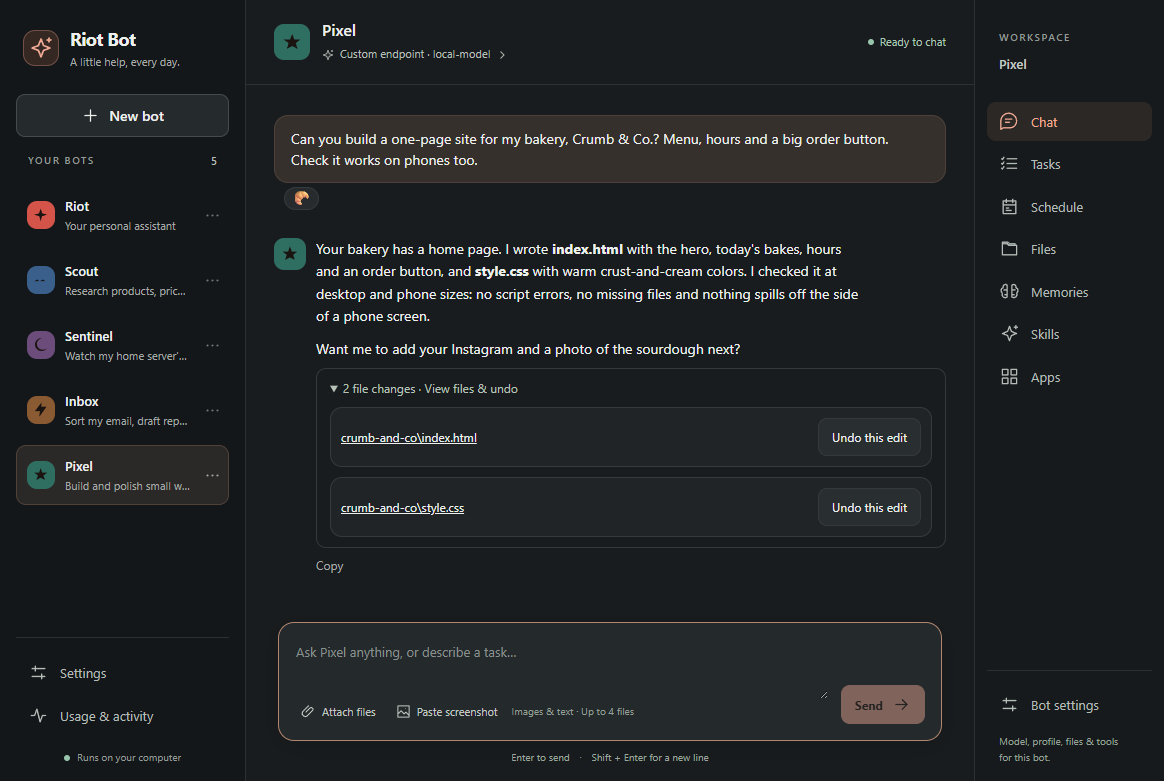
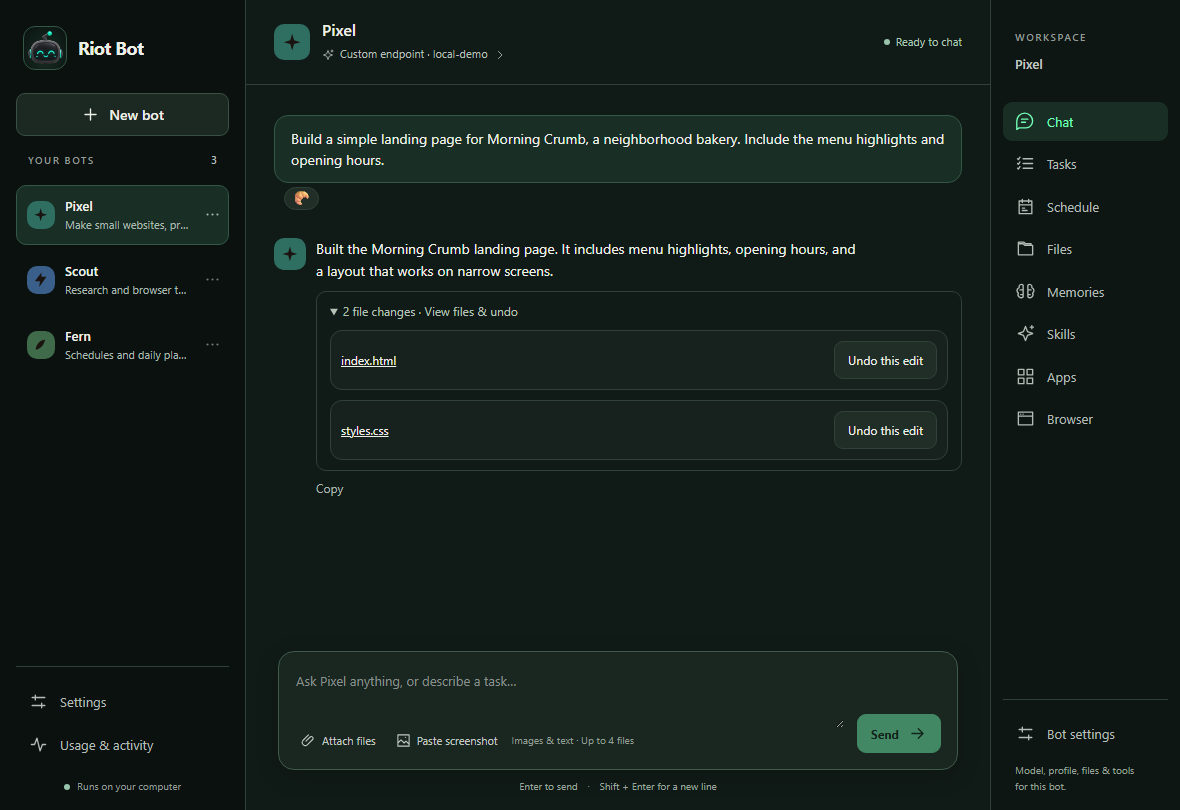
Refresh Riot Bot README screenshots and demo (#18)
Update the looping desktop preview and the Chat, site-access, and Schedule screenshots.

diff --git a/README.md b/README.md
@@ -5,7 +5,7 @@
 > [!NOTE]
 > Riot Bot is an early preview (version 0.1.0). Today it is a Windows desktop app, built from source, with no signed installer yet. Other platforms and an always-on server are on the [roadmap](#roadmap). Read the [known limitations](#known-limitations) before giving a bot access to anything important.
 
-![Riot Bot's main window: the bot list on the left, a bot named Pixel building a bakery website in Chat, and the Workspace sidebar on the right.](docs/images/hero.gif)
+![Riot Bot’s graphite-and-mint workspace. The mascot cycles through six faces before Pixel builds a bakery landing page and shows the files it created.](docs/images/hero.gif)
 
 ## Why Riot Bot
 
@@ -120,7 +120,7 @@ Details: [connect Gmail](docs/gmail.md).
 
 The **Schedule** screen holds reminders and bot tasks that run once, daily, on weekdays or weekly. You can also ask in Chat (“Remind me to check email at 9 PM”). A reminder shows a Riot Bot popup without any AI call. A bot task runs with that bot’s current setup, approvals and budget, and its results appear in Chat and Tasks. Missed AI work waits for **Run now** and is never replayed automatically. Schedules run while Riot Bot is open or in the tray and the computer is awake.
 
-![The Schedule screen with two reminders and a weekday bot task, and a Riot Bot reminder popup in the corner of the desktop.](docs/images/schedule.png)
+![Fern’s Schedule screen showing a weekday morning briefing and a one-time reminder to send bakery photos.](docs/images/schedule.png)
 
 Details: [reminders and scheduled bot work](docs/scheduling.md).
 
